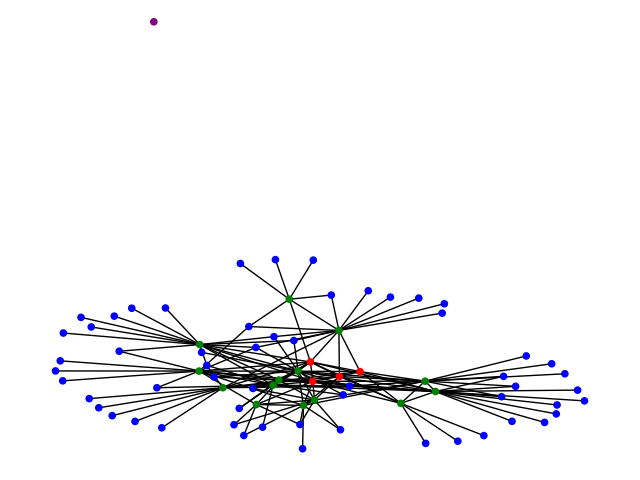
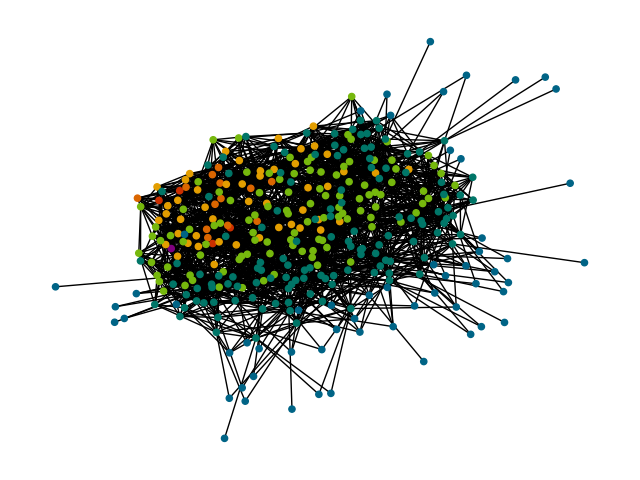
fixed generate function, successfully ran paper example with reactant and product

diff --git a/conversion.py b/conversion.py
@@ -3,6 +3,7 @@ import ac2mol
 from rdkit import Chem
 from rdkit.Chem import Draw
 from rdkit.Chem.EnumerateStereoisomers import EnumerateStereoisomers
+import networkx as nx
 
 
 def one_cycle_conversion_matrices(molecular_graph, max_bond_changes=2):
@@ -31,14 +32,13 @@ def one_cycle_conversion_matrices(molecular_graph, max_bond_changes=2):
     # 2 chemical changes
     permutation_list = [1]*max_bond_changes + [0]*(permutation_size-max_bond_changes)
     unique_permutations = permute_unique(permutation_list)
-    print("permutation size: ", len(unique_permutations))
+    
     # 1 chemical change
     for i in range(permutation_size):
         temp = permutation_size * [0]
         temp[i] = 1
         unique_permutations.append(temp)
     
-    print("permutation list size: ", len(unique_permutations))
     
     # form the permutation matrices
     # 1. for each permutation list
@@ -184,11 +184,13 @@ def update_graph(reactant, atoms, smile_list, G, col):
             G.add_edge(reactant_smiles, mol_smiles)
     
     return smile_list, G, new_smiles
+
+
     
-def generateNetwork(ac, ac_list, G, n):
+def generateNetwork(ac, ac_list, n):
     # color list
-    color_list = ['red', 'orange', 'yellow', 'green', 'blue']
-    
+    color_list = ["#CC2F00", '#DB6600', '#E39E00', '#76B80D', '#007668', '#006486', '#465AB2', '#6D47B1', '#873B9C', 'brown']
+    G = nx.Graph()
     # initiate the graph with reactant
     smiles_list = []
     r_int_list = ac2mol.int_atom(ac_list)
@@ -197,20 +199,25 @@ def generateNetwork(ac, ac_list, G, n):
     G.add_node(r_smiles, color='purple')
     
     # list that will be used to store new intermediates after each iteration
-    inters = [[smiles_list]]
+    inters = [[r_smiles]]
     # n iterations
     for i in range(n):
         new_inter = []
         for j in inters[i]:
-            ac = ac2mol.Smiles2AC(j)
-            smiles_list, G, new_smile = update_graph(ac[0], ac[1], smiles_list, G, color_list[i])
+            ac_j = ac2mol.Smiles2AC(j)
+            _, _, new_smile = update_graph(ac_j[0], ac_j[1], smiles_list, G, color_list[i])
             new_inter = new_inter + new_smile
-        inters.append([new_inter])
+        inters.append(new_inter)
  
         
     return G, inters, smiles_list
     
+def draw_network(G, node_size = 20):
+    node_colors = [G.nodes[node]['color'] for node in G.nodes()] 
+    pos = nx.spring_layout(G, seed = 42)
+    nx.draw(G, pos, node_color = node_colors, node_size = node_size)
 
+    
 def print_arrays(array_list):
     """prints out the numpy arrays so we can see them better
 

diff --git a/paper_example.py b/paper_example.py
@@ -4,50 +4,42 @@ import ac2mol
 import networkx as nx
 import matplotlib.pyplot as plt
 
-smiles_list = []
+# ----------- reactant from the paper ----------------
 #              h h i cl i cl
-r = np.array([[0,0,0,1,0,0],
+r = np.array([[0,1,0,0,0,0],
+              [1,0,0,0,0,0],
+              [0,0,0,1,0,0], 
+              [0,0,1,0,0,0],
+              [0,0,0,0,0,1],
+              [0,0,0,0,1,0]])
+
+r_atoms = ['h','h','i','cl','i','cl']
+
+# ------------- product from the paper ------------------
+#              h h i cl i cl
+p = np.array([[0,0,0,1,0,0],
               [0,0,0,0,0,1],
               [0,0,0,0,1,0], 
               [1,0,0,0,0,0],
               [0,0,1,0,0,0],
               [0,1,0,0,0,0]])
 
-r_atoms = ['h','h','i','cl','i','cl']
-
-r_atoms_int = ac2mol.int_atom(r_atoms)
-
-# print(r_atoms_int)
-# r_BO = ac2mol.AC2BO(r, r_atoms_int, 0)
-# print(r_BO)
+p_atoms = ['h','h','i','cl','i','cl']
+p_atoms_int = ac2mol.int_atom(p_atoms)
+p_smiles = ac2mol.AC2Smiles(p, p_atoms_int)
 
 
-G = nx.Graph()
-# r_smiles = ac2mol.AC2Smiles(r, r_atoms_int)
-G.add_node("[H][H].[Cl][Cl].[I][I]", color = 'purple')
-smiles_list.append("[H][H].[Cl][Cl].[I][I]")
+G, inters, smiles_list = con.generateNetwork(r, r_atoms, 6)
 
-con.update_graph(r, r_atoms_int, smiles_list, G, 'red')
 
-inter_1 = con.create_intermediates(r, r_atoms_int)
-
-inter_2 = []
-for i in inter_1:
-    ac = ac2mol.Mol2AC(i)
-    smiles_list, G, new_smile = con.update_graph(ac[0], ac[1], smiles_list, G, 'green')
-    inter_2 = inter_2 + new_smile
-    
-inter_3 = []
-for i in inter_2:
-    ac = ac2mol.Smiles2AC(i)
-    print(ac[0])
-    print(ac[1])
-    con.update_graph(ac[0], ac[1], smiles_list, G, 'blue')
-
-node_colors = [G.nodes[node]['color'] for node in G.nodes()] 
-pos = nx.spring_layout(G, seed = 42)
-nx.draw(G, pos, node_color = node_colors, node_size=20)
+con.draw_network(G)
 plt.savefig('paper_example.png')
 
-print("Number of Cycles: ",len(nx.cycle_basis(G)))
-print("Number of Nodes: ",len(G.nodes))
+# finding the product in our reaction network
+for i in range(len(inters)):
+    for j in inters[i]:
+        if p_smiles == j:
+            print("The prouct was found in Intermediate layer ", i+1)
+            
+            
+

diff --git a/test.py b/test.py
@@ -7,7 +7,13 @@ from rdkit.Chem.rdmolops import GetAdjacencyMatrix
 
 # ---------------- CONVERSION MATRICES TESTING ----------------------------------------------------
 # ------------------------------------------------------------------------------------------
-r = np.array([[0,1,0,0,0,0],[1,0,0,0,0,0],[0,0,0,1,0,0], [0,0,1,0,0,0],[0,0,0,0,0,1],[0,0,0,0,1,0]])
+r = np.array([[0,0,0,1,0,0],
+              [0,0,0,0,0,1],
+              [0,0,0,0,1,0], 
+              [1,0,0,0,0,0],
+              [0,0,1,0,0,1],
+              [0,1,0,0,1,0]])
+r_atoms = ['h','h','i','cl','i','cl']
 
 test_matrix = np.array([[0,1,0],[0, 0, 1],[0, 0, 0]])
 
